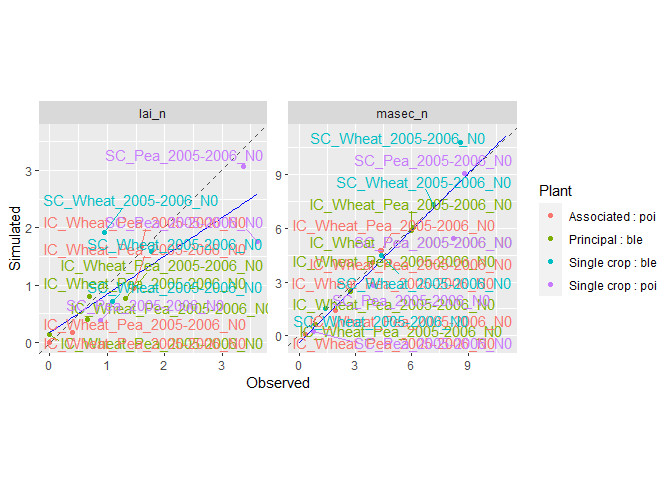
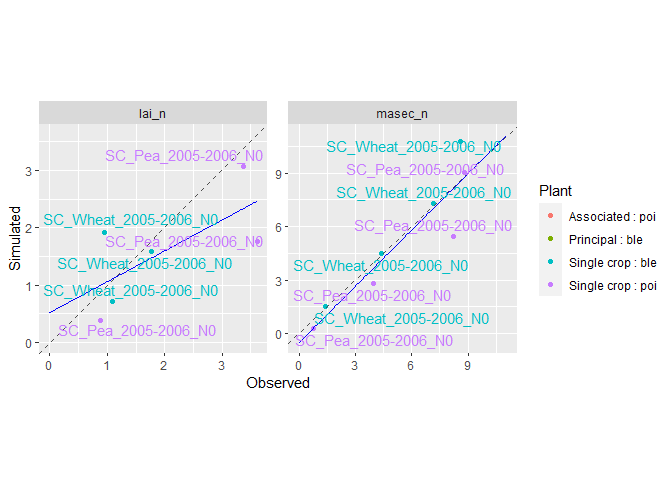
Update README.md

Changed region(s): [[0.0625, 0.2812, 0.7812, 0.75], [0.4062, 0.3438, 0.4375, 0.375]]

diff --git a/README.md b/README.md
@@ -218,7 +218,7 @@ differentiate between situations when `all_situations = TRUE`. If
 desired, the names of the situations can be displayed.
 
 ``` r
-plot(sim, obs= obs, type = "scatter", all_situations = TRUE, shape_sit = "txt")
+plot(sim, obs= obs[c(2,3)], type = "scatter", all_situations = TRUE, shape_sit = "txt")
 #> ! Two columns have the same name with different typographies of the variable name : qnplanteTwo columns have the same name with different typographies of the variable name : qnplante_sd
 #> $all_situations
 ```
@@ -249,8 +249,8 @@ plot(sim, obs= obs, type = "scatter", all_situations = TRUE,
 
 <img src="man/figures/README-unnamed-chunk-14-1.png" width="100%" />
 
-You can also name your `situation_group` list and thus customize the
-plot legend.
+You can also name your `situation_group` list and thus customize (e.g
+shorten) the plot legend.
 
 ``` r
 plot(sim, obs= obs, type = "scatter", all_situations = TRUE, shape_sit = "group", 
